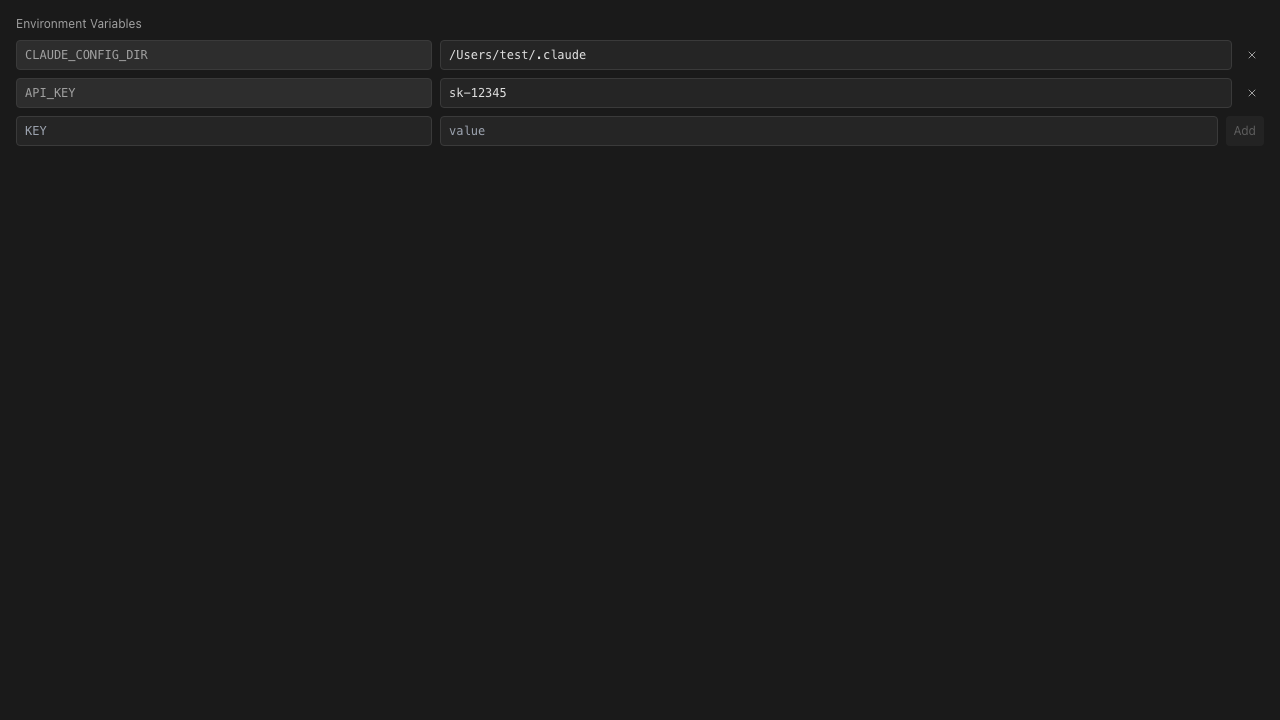
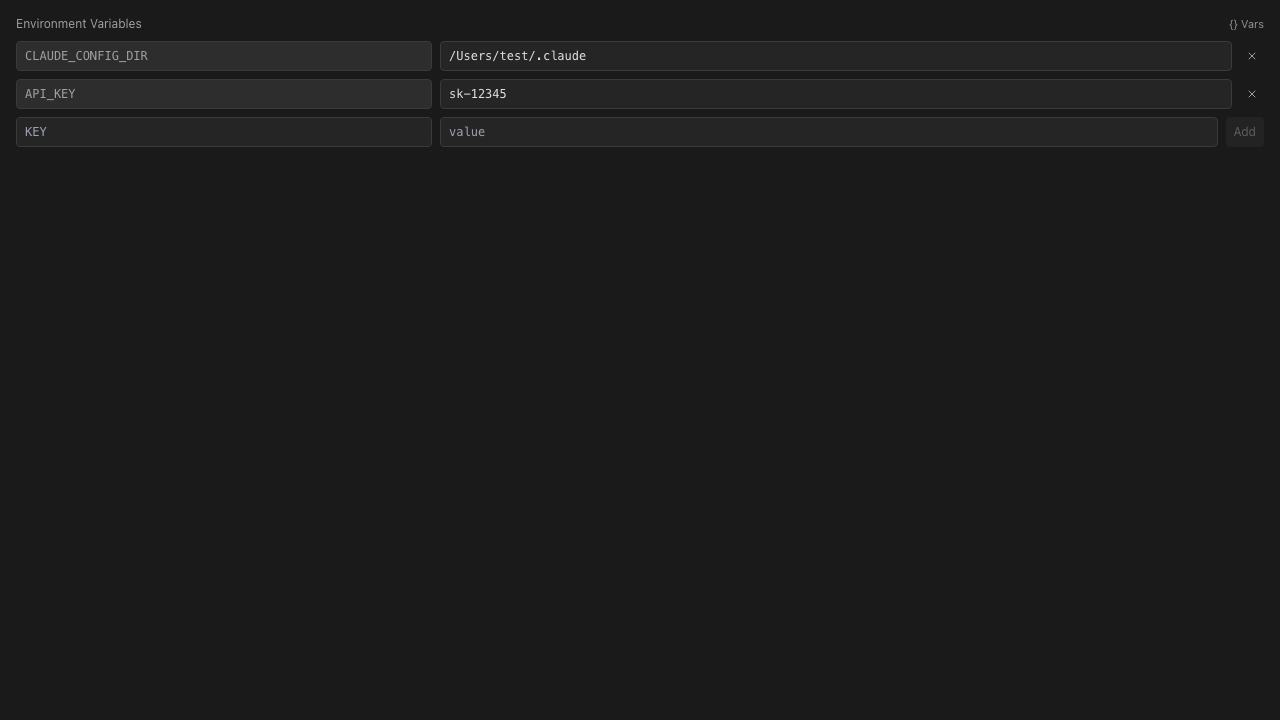
fix: keep SourceControl under the function line limit after merge
Main's new props pushed SourceControl past 200 lines, so the template-var
lookup moves into a useTemplateVars hook.

Regenerates the five settings Storybook references that conflicted: main
refreshed every reference for an appearance change, so neither side's PNG
was correct — these are re-rendered from the merged code.

Claude-Session: https://claude.ai/code/session_01Nc7ptNDG1siTz1h19ecGL4

diff --git a/src/renderer/panels/explorer/tabs/source-control/SourceControl.tsx b/src/renderer/panels/explorer/tabs/source-control/SourceControl.tsx
@@ -4,7 +4,7 @@
  */
 import { useState, useEffect, useMemo, useRef, useCallback } from 'react'
 import type { GitFileStatus, GitStatusResult } from '../../../../../preload/index'
-import type { BranchStatus, PrState, StatusChip } from '../../../../store/sessions'
+import type { BranchStatus, PrState, StatusChip, Session } from '../../../../store/sessions'
 import type { NavigationTarget } from '../../../../shared/utils/fileNavigation'
 import { useSourceControlData } from './useSourceControlData'
 import { useSourceControlActions } from './useSourceControlActions'
@@ -16,7 +16,7 @@ import { SCWorkingView } from './SCWorkingView'
 import { CommandsSetupDialog } from './CommandsSetupDialog'
 import { useCommandsConfig } from '../../../../features/commands/hooks/useCommandsConfig'
 import { computeConditionState } from '../../../../features/commands/conditionState'
-import { buildTemplateVars } from '../../../../features/commands/templateVars'
+import { buildTemplateVars, type TemplateVarRepo } from '../../../../features/commands/templateVars'
 import { DEFAULT_STAGE } from '../../../../features/commands/commandsConfig'
 import { useSessionStore } from '../../../../store/sessions'
 
@@ -44,6 +44,29 @@ interface SourceControlProps {
   isReview?: boolean
   reviewStatus?: 'pending' | 'reviewed'
   onRefreshReviewStatus?: () => void
+}
+
+/** Resolves the template variables that action labels and prompts substitute. */
+function useTemplateVars({
+  session, repo, syncStatus, directory, branchBaseName, issueNumber, issueTitle, issueUrl,
+}: {
+  session?: Session
+  repo?: TemplateVarRepo
+  syncStatus?: GitStatusResult | null
+  directory?: string
+  branchBaseName?: string
+  issueNumber?: number
+  issueTitle?: string
+  issueUrl?: string
+}) {
+  return useMemo(() => buildTemplateVars({
+    session,
+    repo,
+    syncStatus,
+    directory: directory ?? '',
+    branchBaseName,
+    issue: { number: issueNumber, title: issueTitle, url: issueUrl },
+  }), [session, repo, syncStatus, directory, branchBaseName, issueNumber, issueTitle, issueUrl])
 }
 
 export function SourceControl({
@@ -149,14 +172,10 @@ export function SourceControl({
   const conditionState = settledConditionState.current
 
   // Template variables for action labels and prompts
-  const templateVars = useMemo(() => buildTemplateVars({
-    session: activeSession,
-    repo: data.currentRepo,
-    syncStatus,
-    directory: directory ?? '',
-    branchBaseName: data.branchBaseName,
-    issue: { number: issueNumber, title: issueTitle, url: issueUrl },
-  }), [activeSession, data.currentRepo, syncStatus, directory, data.branchBaseName, issueNumber, issueTitle, issueUrl])
+  const templateVars = useTemplateVars({
+    session: activeSession, repo: data.currentRepo, syncStatus, directory,
+    branchBaseName: data.branchBaseName, issueNumber, issueTitle, issueUrl,
+  })
 
   if (!directory) return null
 
